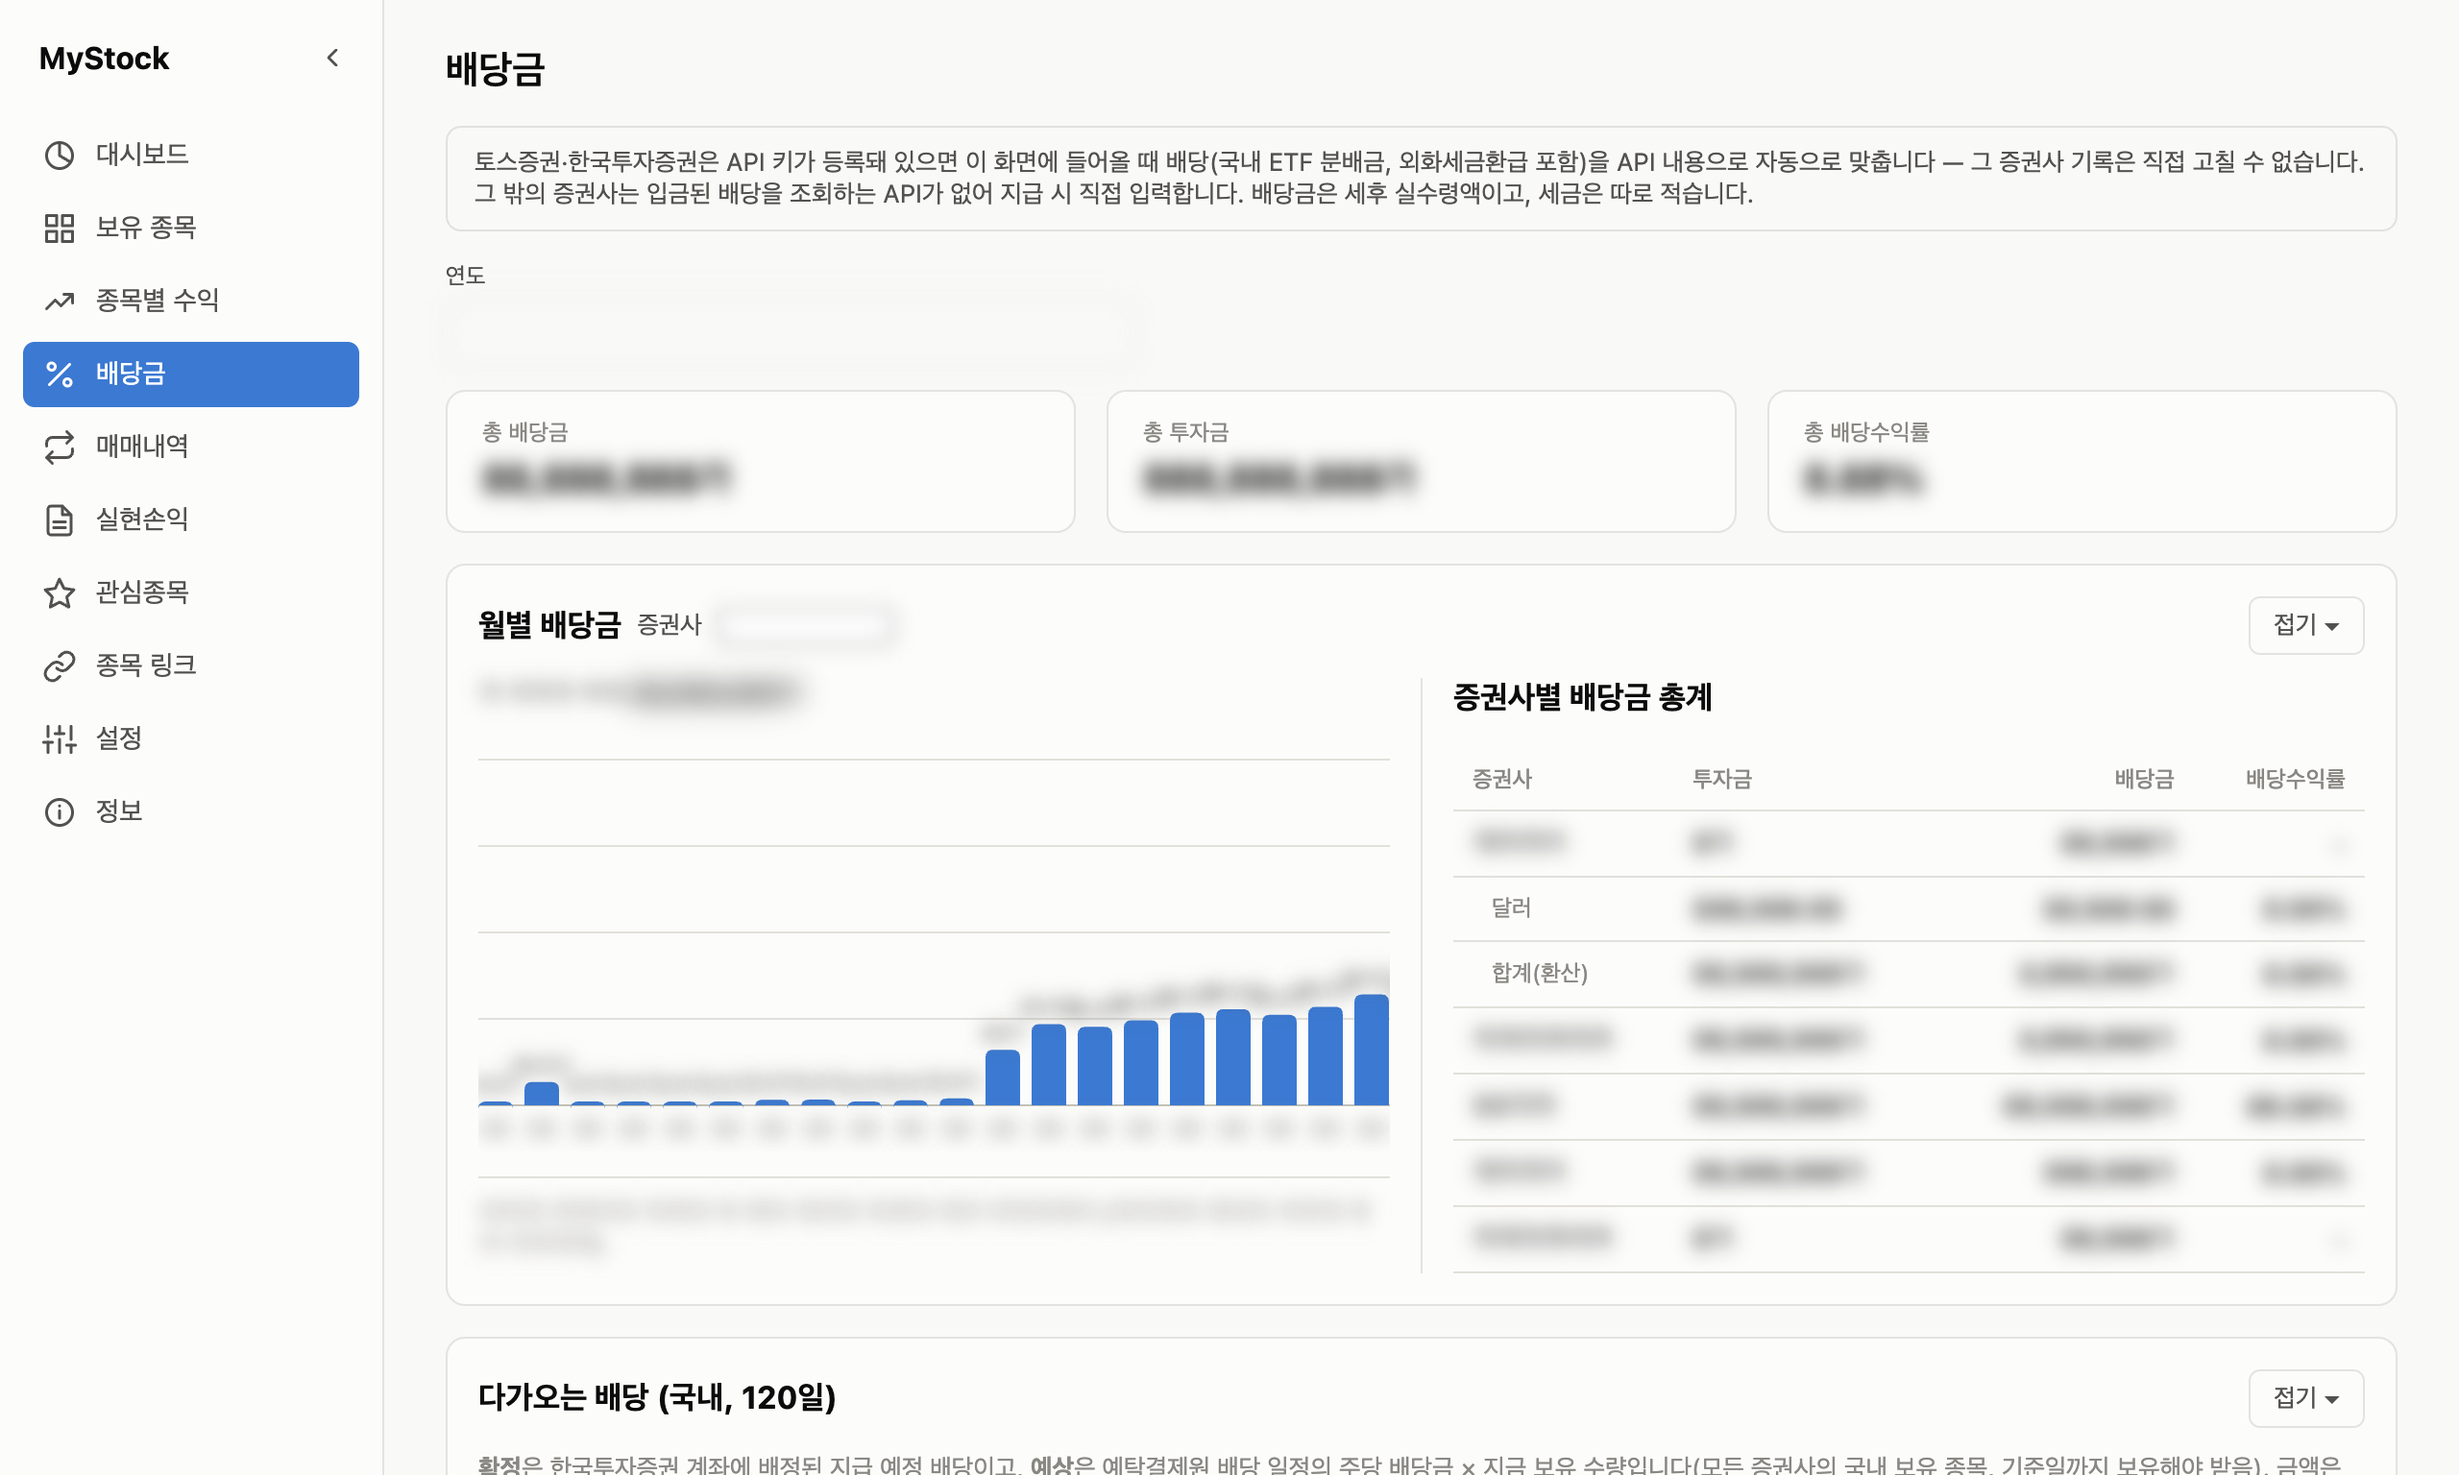
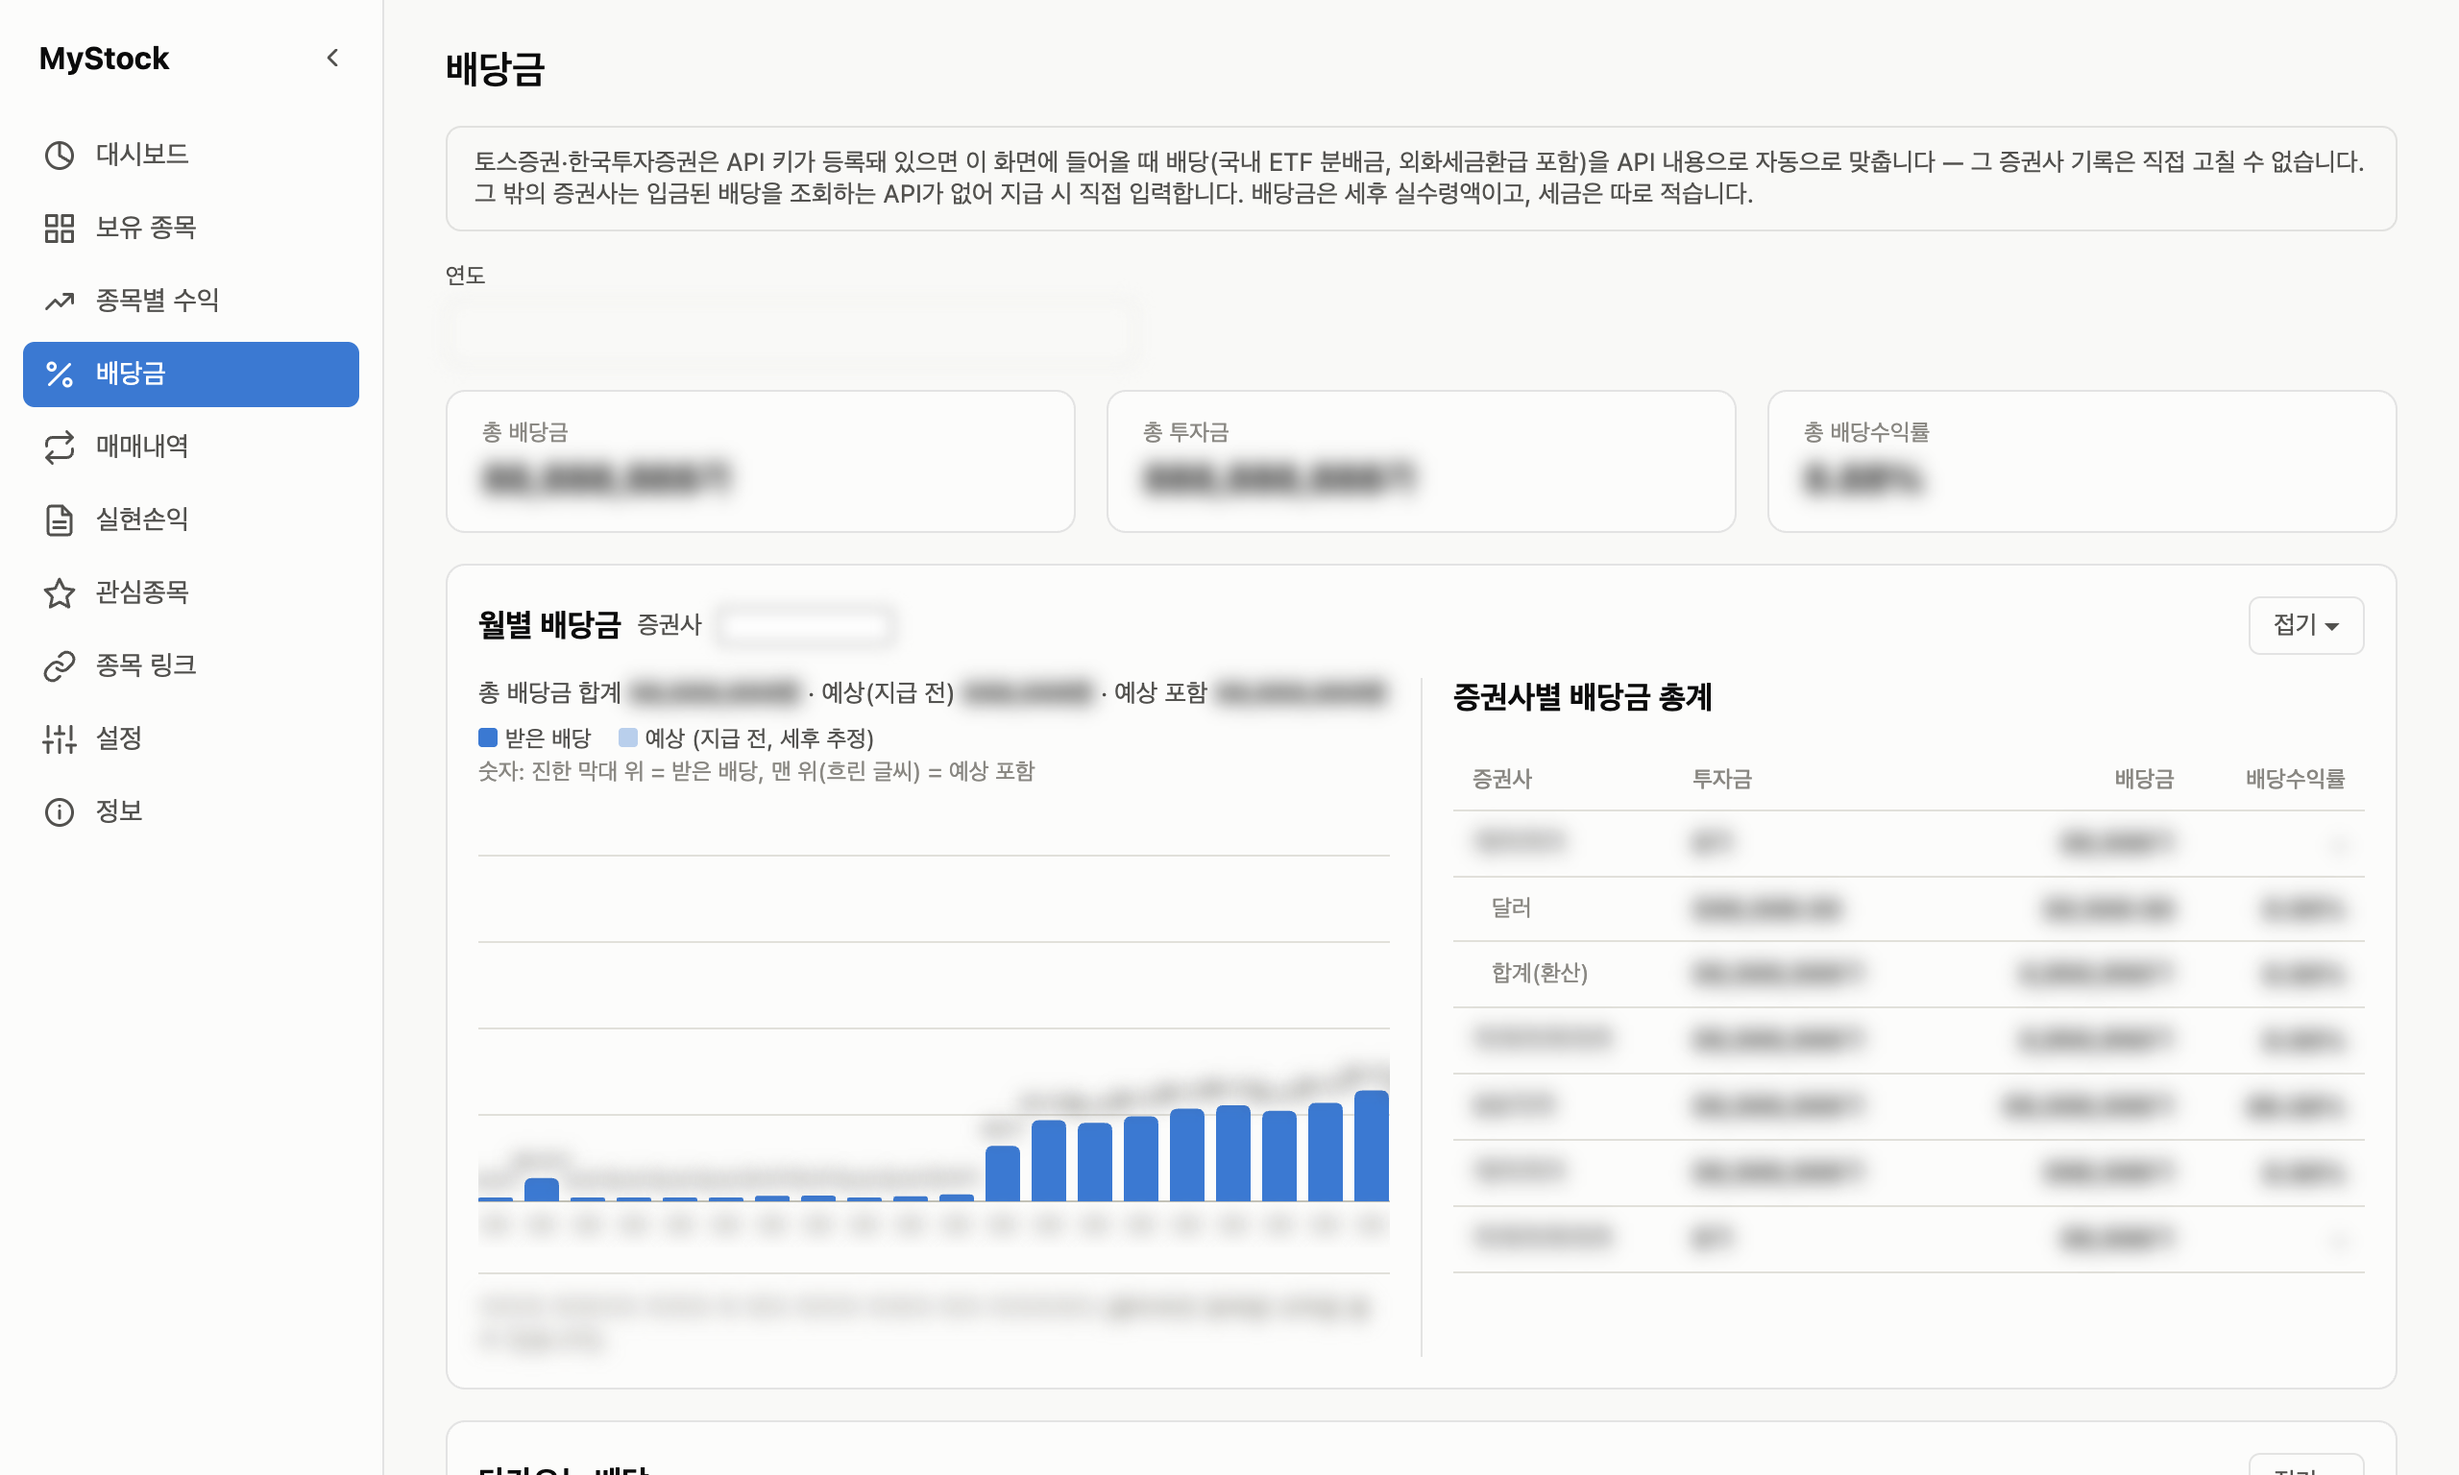
chore: v1.2.1 — 다가오는 배당 미국 주식·예상 배당 그래프 릴리스
- version.json·package.json·package-lock.json 1.2.1, CHANGELOG "다음 버전" → v1.2.1 절
- 매뉴얼 v1.2.1 기준, 배당금·다가오는 배당·정보 화면 스크린샷 갱신(치환+블러, OCR 재검사)
- 월별 배당금 그래프 범례 항목이 좁은 칸에서 단어 중간에 줄바뀌지 않게

diff --git a/frontend/src/components/DividendsChart.tsx b/frontend/src/components/DividendsChart.tsx
@@ -96,12 +96,12 @@ export default function DividendsChart({
         {hasUnconvertedUsd && ' (달러 배당금은 환율 미적용 — 설정에서 환율을 등록해주세요)'}
       </div>
       {hasExpected && (
-        <div style={{ display: 'flex', gap: 14, fontSize: 12, color: 'var(--text-secondary)', marginBottom: 6 }}>
-          <span>
+        <div style={{ display: 'flex', flexWrap: 'wrap', columnGap: 14, rowGap: 2, fontSize: 12, color: 'var(--text-secondary)', marginBottom: 6 }}>
+          <span style={{ whiteSpace: 'nowrap' }}>
             <span style={{ display: 'inline-block', width: 10, height: 10, borderRadius: 2, background: 'var(--series-1)', marginRight: 4 }} />
             받은 배당
           </span>
-          <span>
+          <span style={{ whiteSpace: 'nowrap' }}>
             <span style={{ display: 'inline-block', width: 10, height: 10, borderRadius: 2, background: 'var(--series-1)', opacity: EXPECTED_OPACITY, marginRight: 4 }} />
             예상 (지급 전, 세후 추정)
           </span>

diff --git a/README.md b/README.md
@@ -21,7 +21,7 @@
 - **설치 파일**: [GitHub Releases](https://github.com/ultracat/MyStockInfo/releases)에서 OS에 맞는 파일을 받습니다.
   - macOS(Apple 칩) `.dmg`, Windows `.exe`, Linux `.AppImage`
 - **사용자 매뉴얼**: [`doc/user-manual.md`](doc/user-manual.md) — 화면별 사용법, 증권사 API 키 발급 안내, 백업/복원, 문제 해결.
-- **변경 내역**: [`CHANGELOG.md`](CHANGELOG.md) — 버전별 새 기능과 수정(최신 v1.2.0). 새 버전으로 바꿔 설치해도 데이터와 API 키는 그대로 남습니다
+- **변경 내역**: [`CHANGELOG.md`](CHANGELOG.md) — 버전별 새 기능과 수정(최신 v1.2.1). 새 버전으로 바꿔 설치해도 데이터와 API 키는 그대로 남습니다
   ([매뉴얼의 "새 버전으로 업데이트"](doc/user-manual.md#새-버전으로-업데이트)).
 - ⚠ 설치 파일은 **OS별 코드 서명 인증서로 서명되어 있지 않아** 처음 실행할 때 macOS·Windows가 막습니다.
   OS별 허용 방법(macOS 15부터는 우클릭 → 열기가 통하지 않음)은

diff --git a/CHANGELOG.md b/CHANGELOG.md
@@ -3,7 +3,9 @@
 MyStock의 버전별 변경 사항입니다. 설치 파일은 [GitHub Releases](https://github.com/ultracat/MyStockInfo/releases)에서 받습니다.
 기능별 사용법은 [사용자 매뉴얼](doc/user-manual.md)을 참고하세요.
 
-## 다음 버전 (미배포)
+## v1.2.1 — 2026-11-16
+
+**다가오는 배당에 미국 주식**이 추가되고, 월별 배당금 그래프에 지급 전 예상 배당이 함께 보입니다.
 
 ### 새 기능
 - **다가오는 배당에 미국 주식**을 추가했습니다. 모든 증권사의 미국 보유 종목에 대해 발표된 배당 일정(기준일·지급일)과 주당 배당금(달러)을
